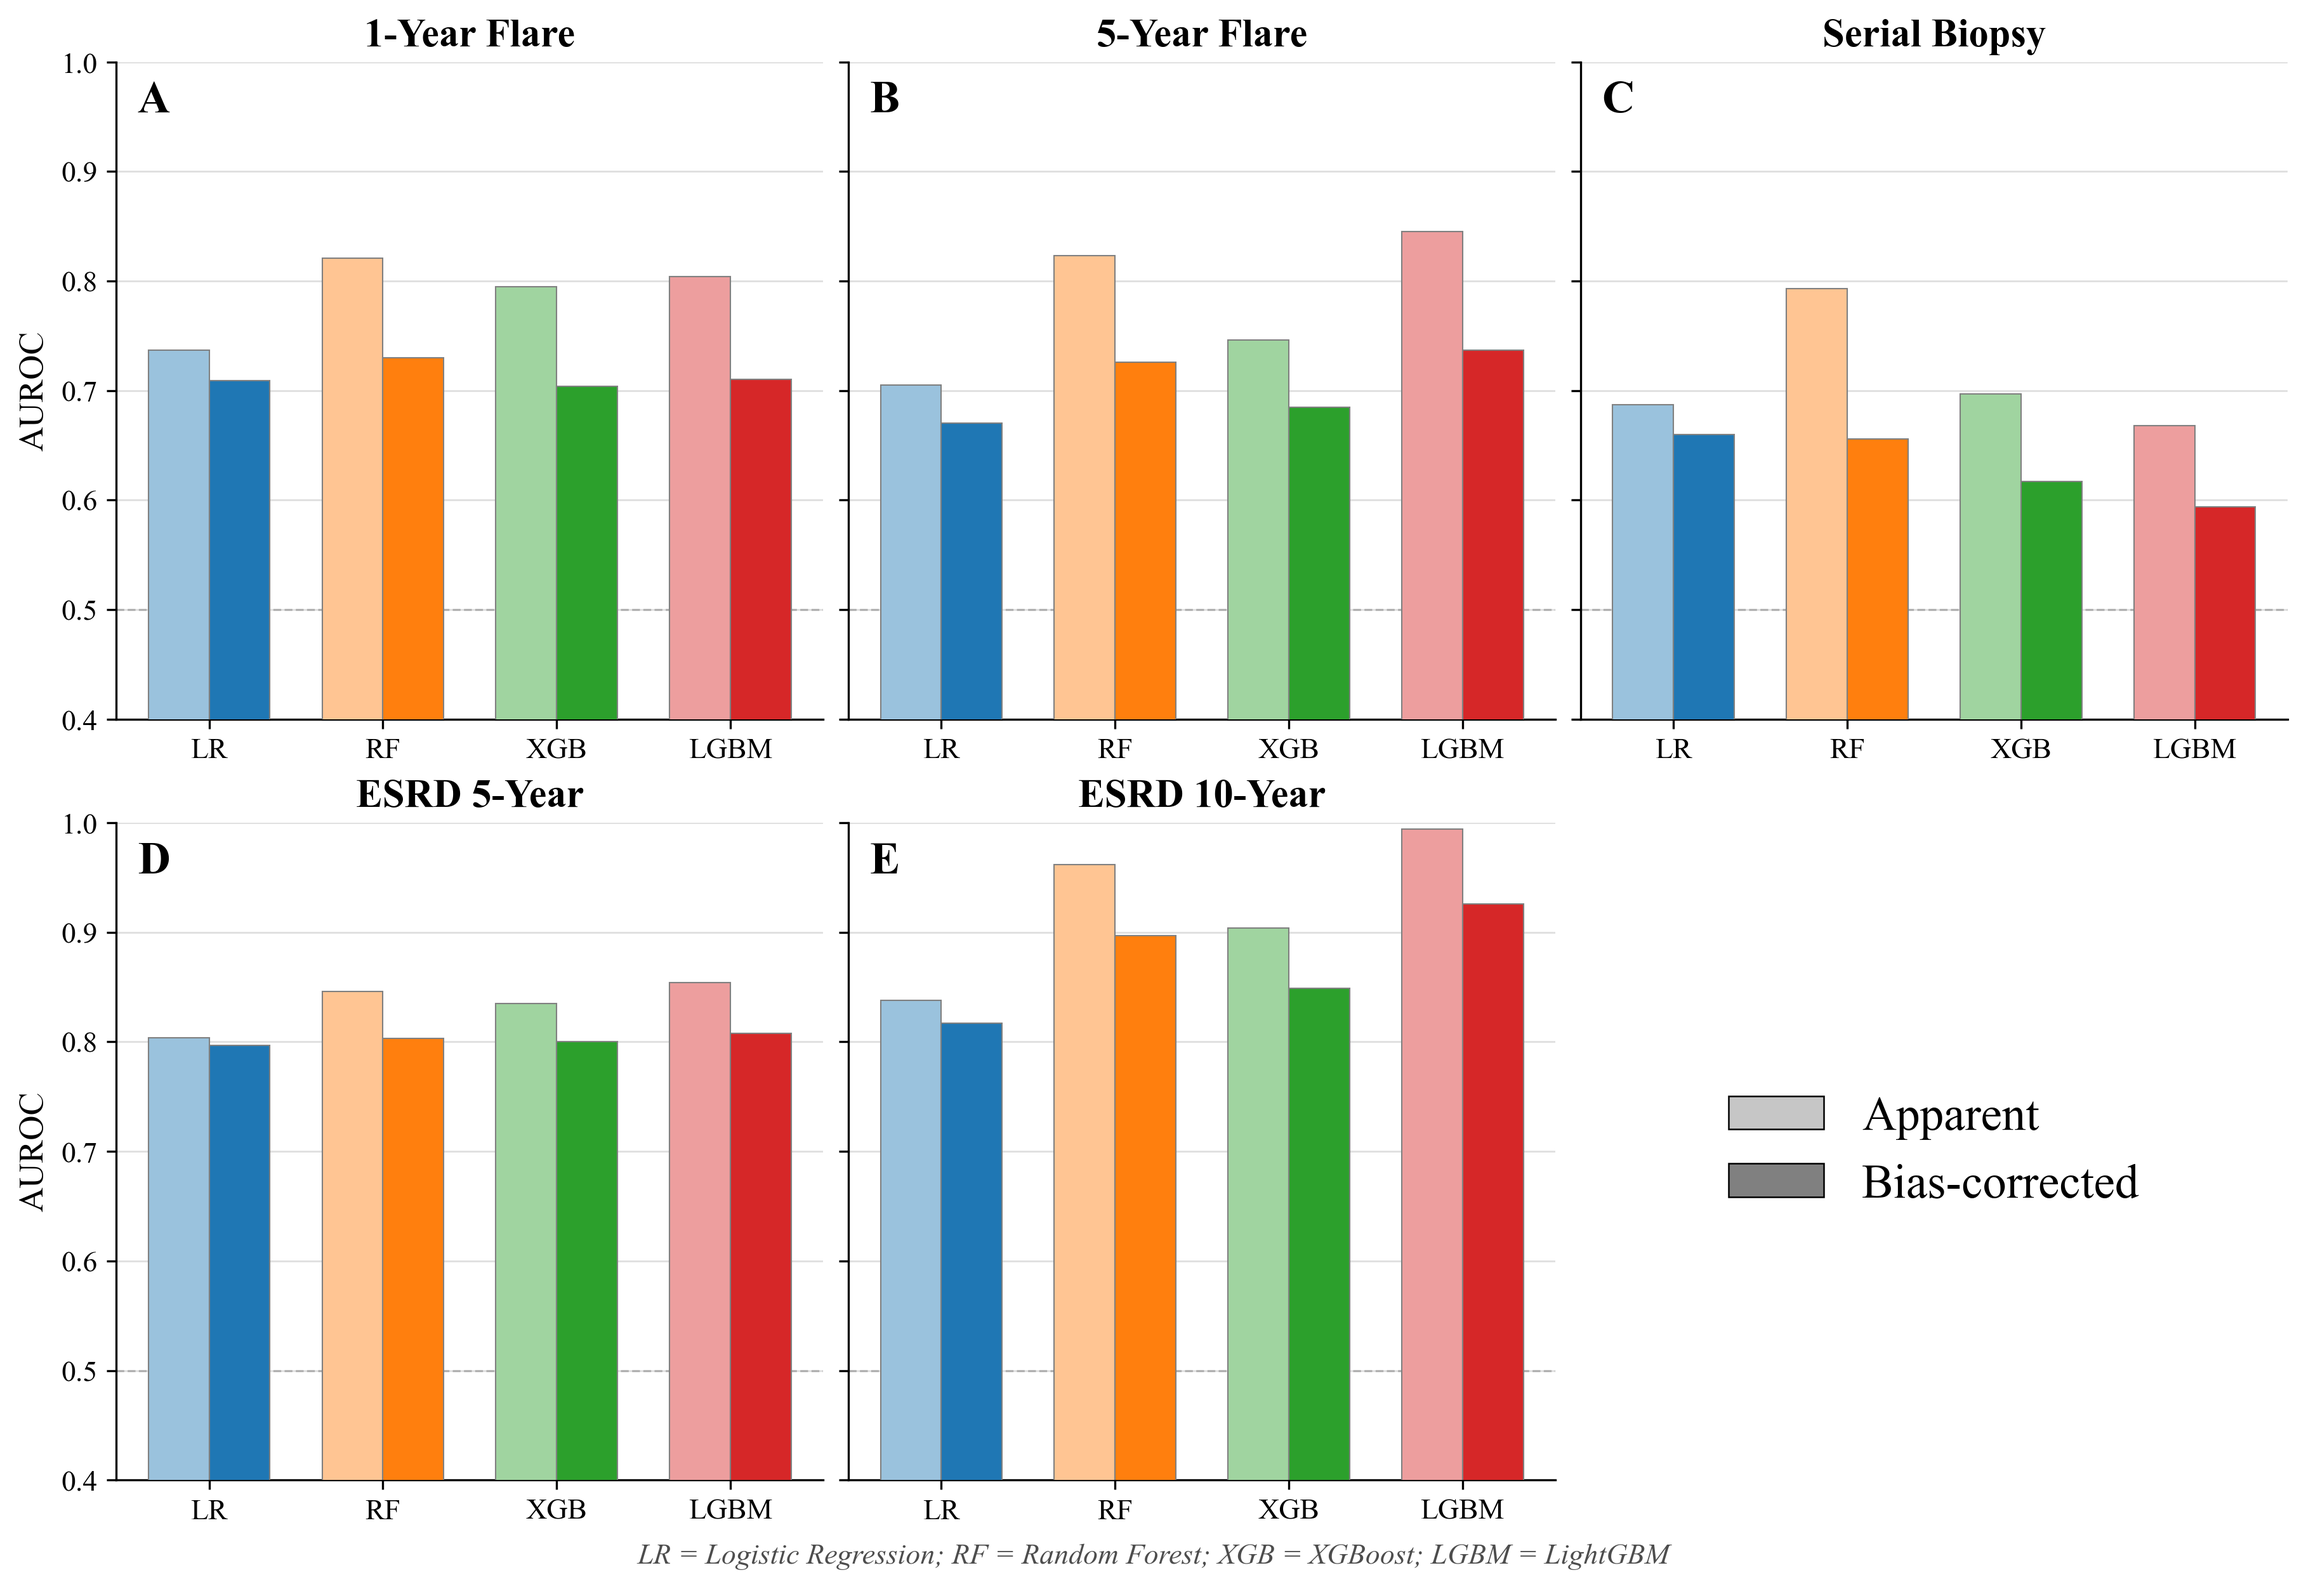
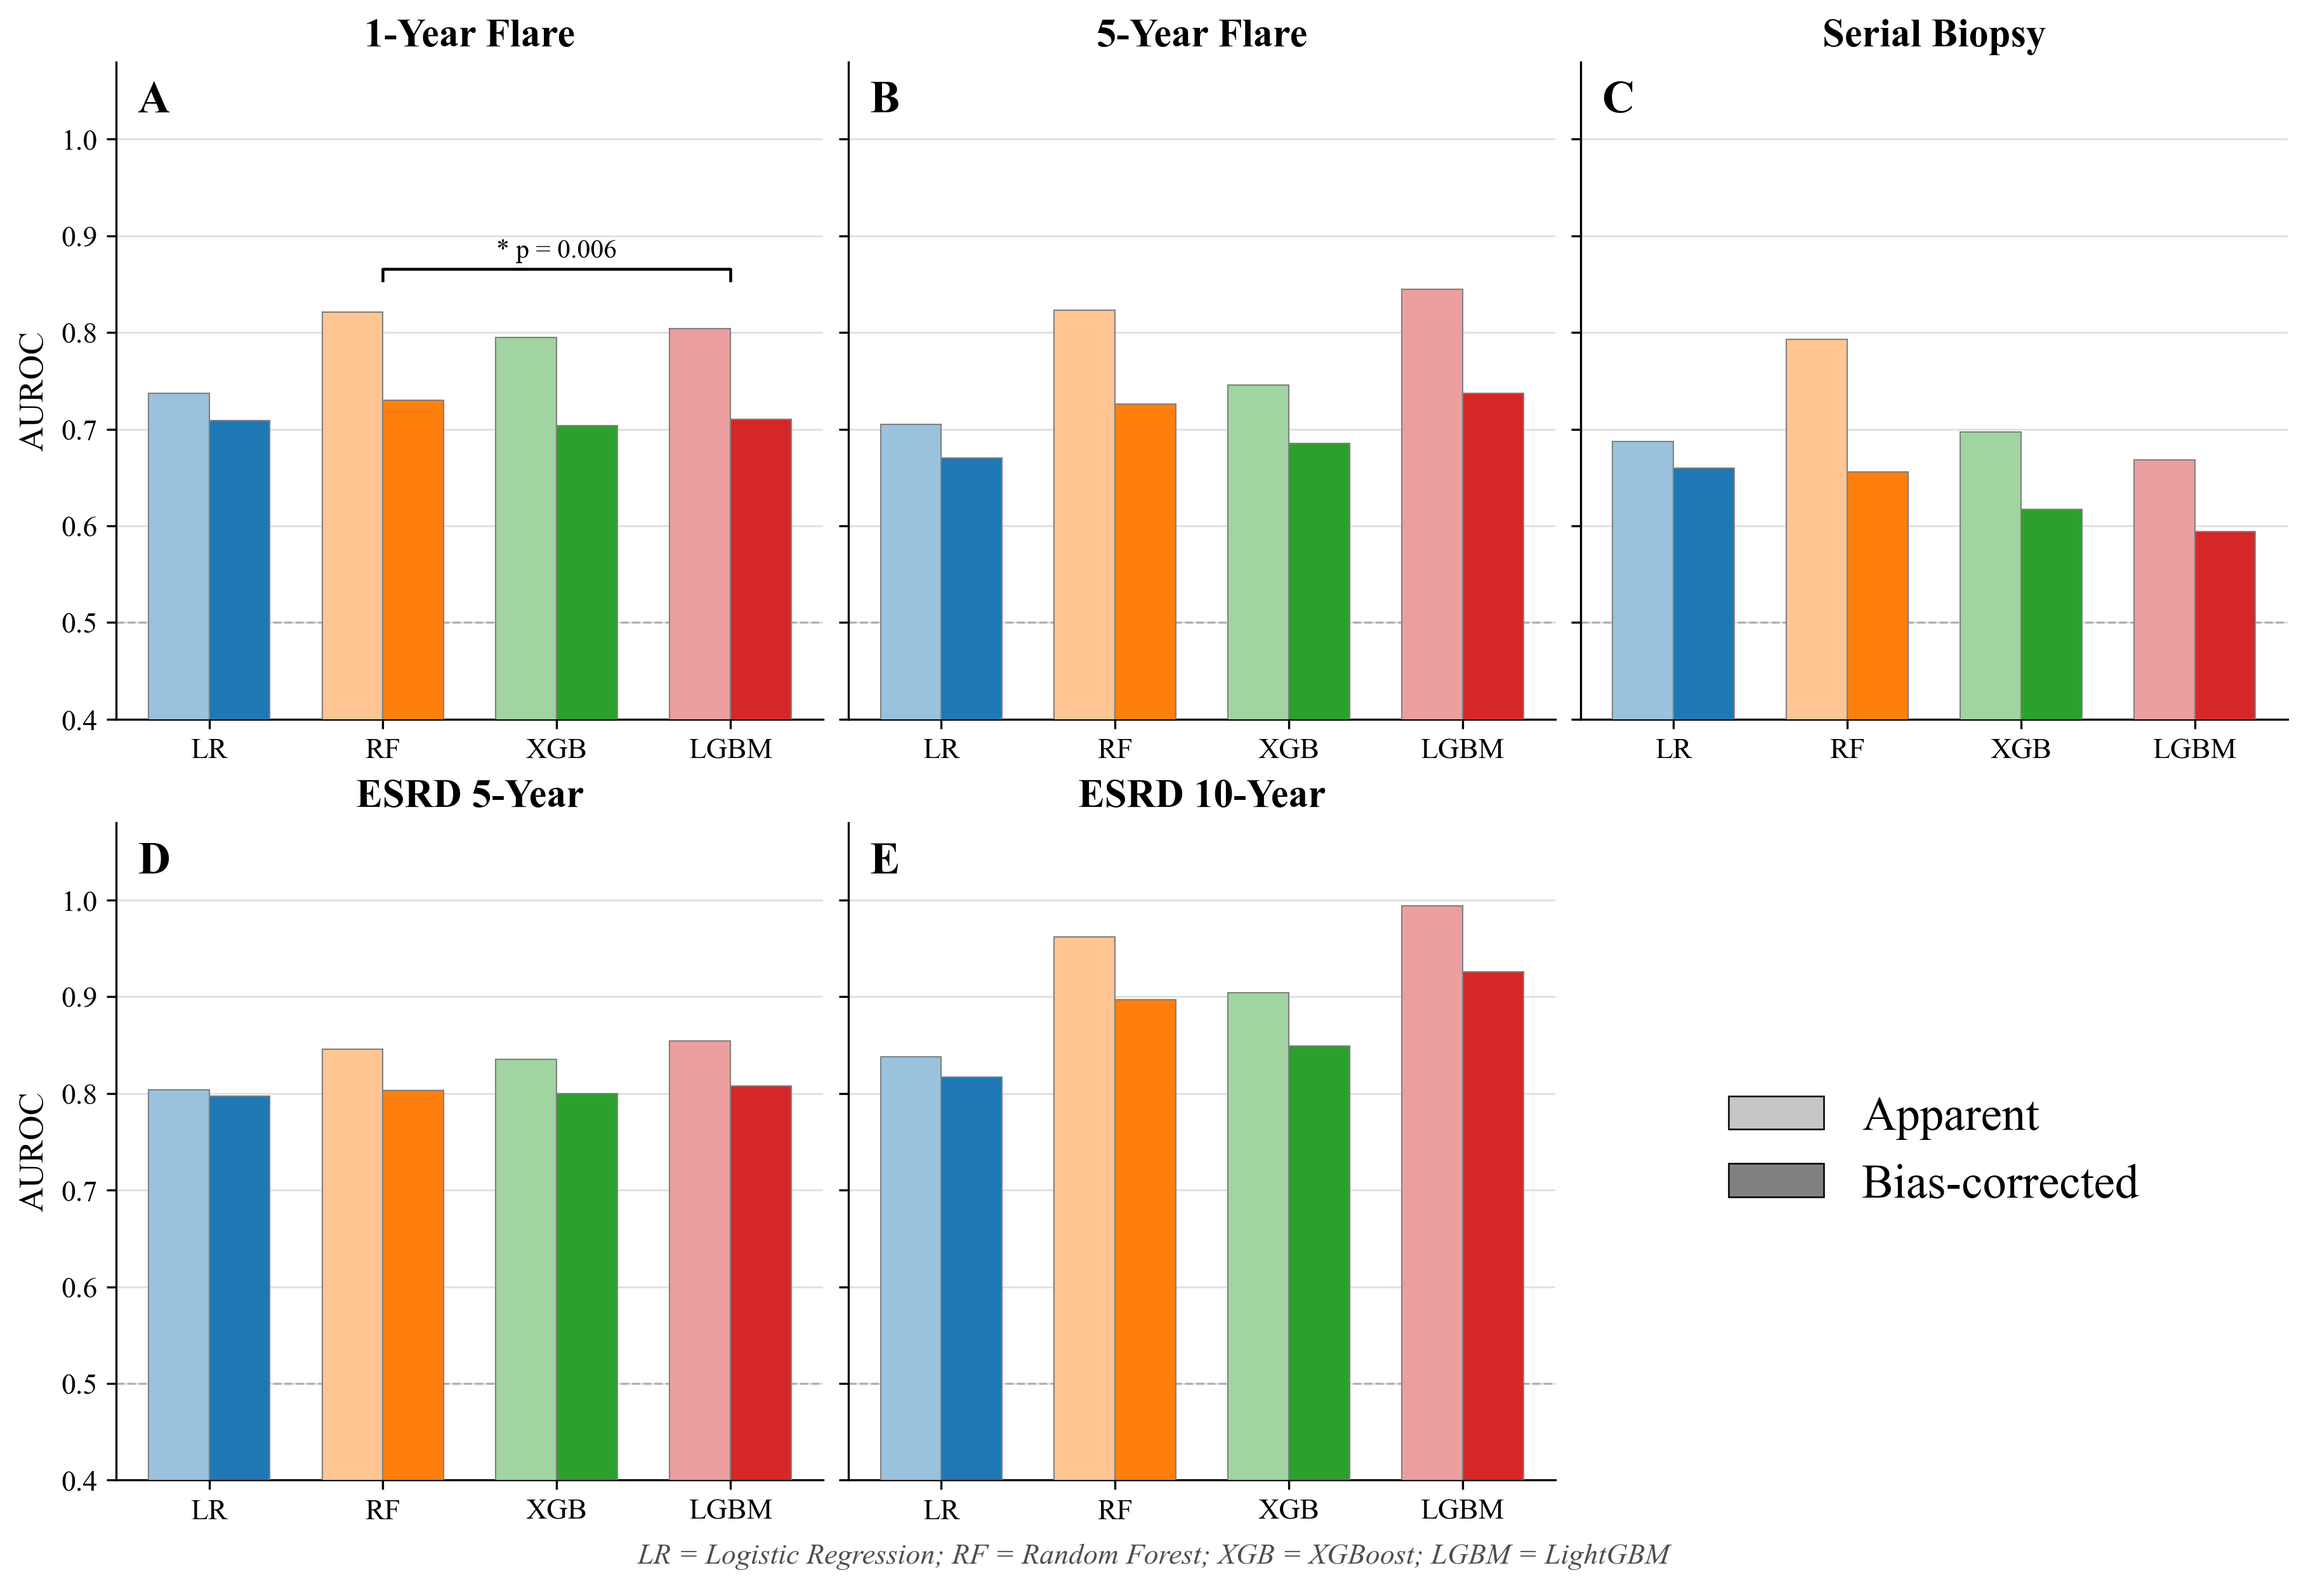
Add DeLong significance bracket to optimism bar chart, pad y-axis to match ROC figure
- Panel A (1-Year Flare) only: bracket + '* p = 0.006' between Random
  Forest and LightGBM - the sole significant pairwise DeLong result across
  all 5 cohorts and 6 comparisons per cohort (src/13_delong_test.py).
  Config-driven (SIGNIFICANT_PAIRS dict) so it's a one-line addition if
  future DeLong reruns find others.
- ylim extended 0.4-1.0 -> 0.4-1.08 (ticks unchanged) so bars/brackets
  near the top have headroom instead of sitting flush against the frame -
  same fix already applied to roc_all_cohorts.png.

diff --git a/src/17_optimism_barchart.py b/src/17_optimism_barchart.py
@@ -46,11 +46,30 @@ MODEL_ORDER = list(MODEL_COLORS)
 MODEL_ABBR = {"Logistic Regression": "LR", "Random Forest": "RF", "XGBoost": "XGB", "LightGBM": "LGBM"}
 PANEL_LETTERS = ["A", "B", "C", "D", "E"]
 
+# DeLong pairwise significance (src/13_delong_test.py) - the only significant
+# result across all five cohorts and six pairwise comparisons per cohort:
+# Random Forest significantly outperformed LightGBM in the 1-Year Flare
+# cohort (p=0.001 raw, p=0.006 Holm-corrected). Every other comparison in
+# every other cohort was non-significant, so no other panel gets a bracket.
+SIGNIFICANT_PAIRS = {
+    "1-Year Flare": [("Random Forest", "LightGBM", "p = 0.006")],
+}
+
 
 def lighten(hex_color, amount=0.55):
     """Blend a colour toward white by `amount` (0 = original, 1 = white)."""
     r, g, b = to_rgb(hex_color)
     return (r + (1 - r) * amount, g + (1 - g) * amount, b + (1 - b) * amount)
+
+
+def add_significance_bracket(ax, x1, x2, y, label):
+    """Draws a bracket (horizontal line + short end-ticks) between x1 and x2
+    at height y, with `label` (e.g. '* p = 0.006') centred above it -
+    matching the significance-bracket convention used elsewhere in the
+    project (src/esrd/06_esrd_delong_figure.py)."""
+    tick = 0.012
+    ax.plot([x1, x1, x2, x2], [y - tick, y, y, y - tick], color="black", lw=1.1, zorder=6)
+    ax.text((x1 + x2) / 2, y + 0.006, label, ha="center", va="bottom", fontsize=10, zorder=6)
 
 
 def load_bootstrap(path, sheet, apparent_col, bc_col):
@@ -102,6 +121,7 @@ for i, c in enumerate(cohorts):
     ax.set_axisbelow(True)
     ax.grid(axis="y", which="major", color="0.88", linewidth=0.7, zorder=0)
 
+    panel_max = 0.0
     for j, name in enumerate(MODEL_ORDER):
         apparent, bc = c["data"][name]
         base = MODEL_COLORS[name]
@@ -109,11 +129,18 @@ for i, c in enumerate(cohorts):
                edgecolor="0.5", linewidth=0.5, zorder=3)
         ax.bar(x[j] + bar_w / 2, bc, width=bar_w, color=base,
                edgecolor="0.5", linewidth=0.5, zorder=3)
+        panel_max = max(panel_max, apparent, bc)
+
+    for m1, m2, label in SIGNIFICANT_PAIRS.get(c["label"], []):
+        x1, x2 = x[MODEL_ORDER.index(m1)], x[MODEL_ORDER.index(m2)]
+        add_significance_bracket(ax, x1, x2, panel_max + 0.045, f"* {label}")
 
     ax.set_xticks(x)
     ax.set_xticklabels([MODEL_ABBR[m] for m in MODEL_ORDER], rotation=0, fontsize=12)
     ax.set_title(c["label"], fontsize=15, fontweight="bold")
-    ax.set_ylim(0.4, 1.0)
+    # small headroom above 1.0 so bars/brackets near the top aren't flush
+    # against the frame (same fix applied to the ROC figure)
+    ax.set_ylim(0.4, 1.08)
     ax.set_yticks(np.arange(0.4, 1.01, 0.1))
     ax.axhline(0.5, color="grey", linestyle="--", lw=0.8, alpha=0.5, zorder=2)
     ax.spines[["top", "right"]].set_visible(False)
